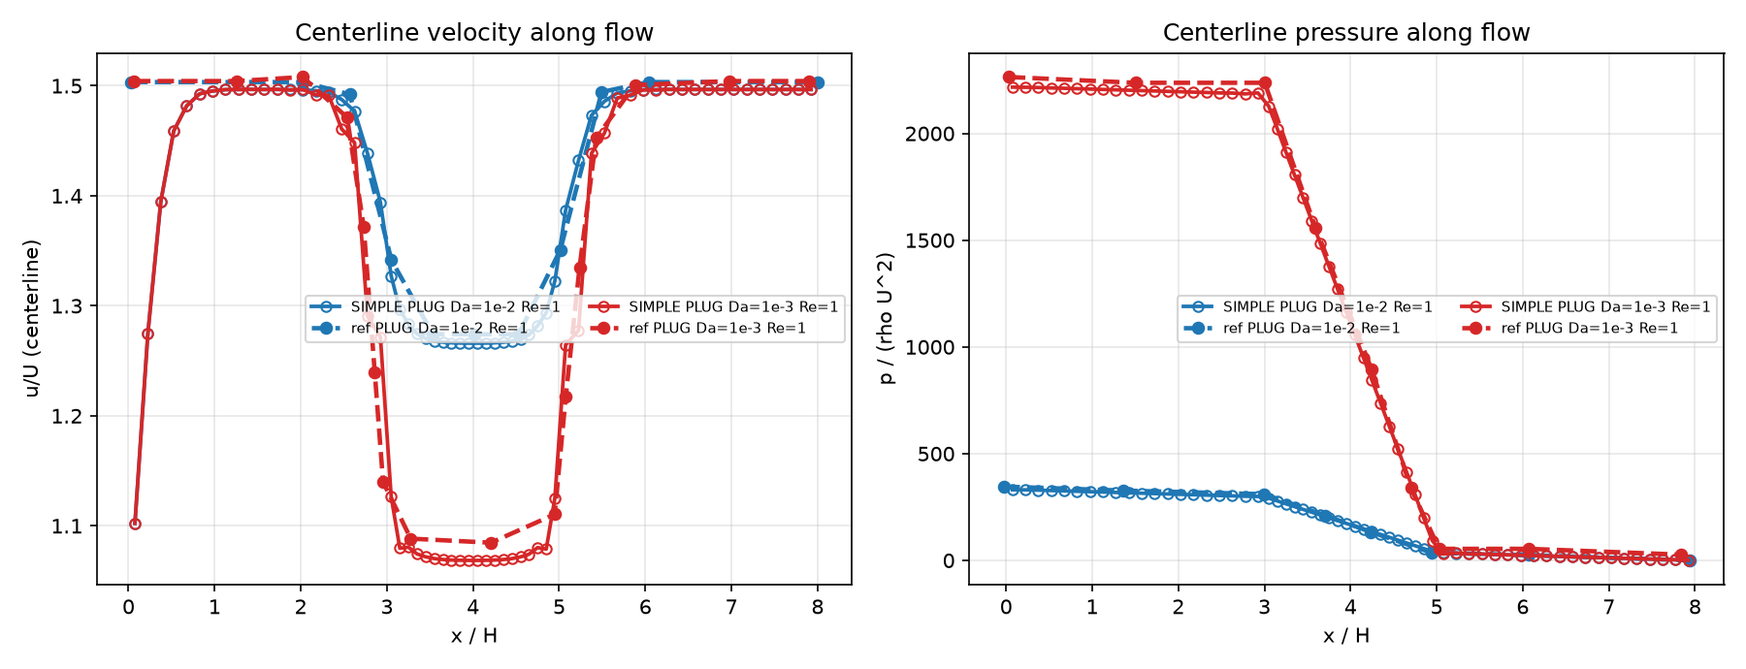
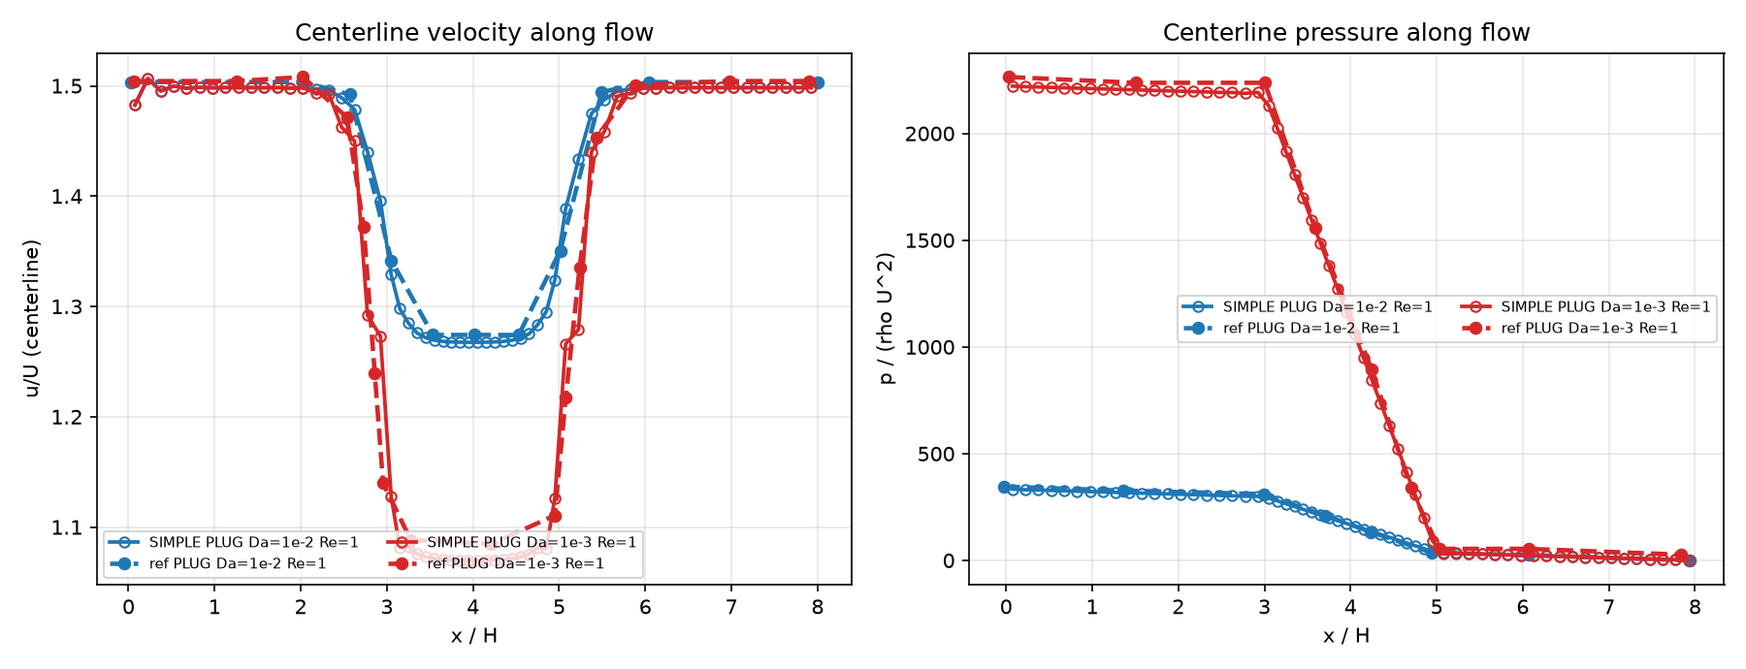
betchen: fix PLUG comparison sampling (inlet velocity looked "wrong")
Answer to "why is the inlet velocity still wrong after adding the profile?":
three separate things, only the last one is a (tiny) discretisation effect.

1. Stale plot: images/plug_compare_ref.png was generated (22:46) from the
   pre-parabolic VTU while the committed .vtu files were refreshed at 23:16.
   compare_plug.py / plot_plug.py re-run from the current VTU.
2. Clamped reference samples: our VTU is cell-centred, so the first data
   column is at x/H=0.075, while the digitised reference starts at
   x/H=0.032 (plug_1) / 0.064 (plug_2) -- inside our first cell. The old
   np.interp clamped them to the first-cell value, so the old headline
   "u L2 8.06%->0.63%" and "max|du| 0.401->0.021" came almost entirely from
   that single sample (UNI 1.102 / PAR 1.483 vs ref 1.503). vs_ref.py and
   compare_plug.py now drop those samples and print an explicit note.
3. The first-column 1.483 is NOT the BC: the .control imposes the face value
   (|u_f| = 6*U0*xi*(1-xi), centreline exactly 1.5000*U0); 1.483 is the
   first CELL centre, carrying the O(dx) inlet-cell error. Refining x by 3x
   (gen_plug.py <out>.cas x 60,40,60, dx 0.15H -> 0.05H) gives first-column
   centre 1.4826 -> 1.4965 (-1.2% -> -0.2%) and 1.5002 at x/H=0.075
   (max|u-ana| = 0.0017).

Restated A/B (same binary, UNI -> PAR, masked sampling):
  inlet column max|u-6xi(1-xi)|  0.398 -> 0.018  (flat 1.102/0.328 ->
      parabolic 1.483/0.136, wall cell 0.328 -> 0.136)  <- the real gain
[…]

diff --git a/docs/93_changelog.tex b/docs/93_changelog.tex
@@ -31,22 +31,45 @@
 \endhead
 \bottomrule
 \endlastfoot
+2026-10-09 & 11 &
+\textbf{对拍采样口径修正}（不改源码）：\texttt{cases/betchen} 的 PLUG 对比脚本原用
+\texttt{np.interp} 把数字化参考 CSV 中落在我们第一个单元内部（$x/H<0.075$，如
+0.032/0.064）的采样点\textbf{截断}成第一列单元值，而 VTU 只有单元中心数据，
+于是``入口 u''被读成单元值（1.483）而非 BC 施加的\textbf{面值}（精确 1.5\,$U_0$）；
+同时 \texttt{images/plug\_compare\_ref.png} 一直停在旧（均匀入口）VTU 上未重绘。
+现 \texttt{vs\_ref.py}/\texttt{compare\_plug.py} 剔除这些点并打印 \texttt{note}，
+\texttt{inlet\_profile.py} 增印同样采样的解析离散积分（NY=21 为 0.99449，而非 1.0），
+两个绘图脚本一律由当前 VTU 重新生成。另用 x 方向加密 3 倍
+（\texttt{gen\_plug.py <out>.cas x 60,40,60}，$\Delta x$ 0.15H$\to$0.05H）
+证明第一列偏差 $-1.2\%\to-0.2\%$ 是入口单元 $O(\Delta x)$ 误差而非 BC 误差。 &
+\texttt{cases/betchen/README.md} \S3.4.1（新）,
+\texttt{cases/betchen/\{vs\_ref,compare\_plug,inlet\_profile\}.py} &
+修正后的同一二进制 UNI$\to$PAR 对拍：入口列 $\max|u-6\xi(1-\xi)|$
+\textbf{0.398$\to$0.018}（平顶中心 1.102 / 壁面格 0.328 $\to$ 抛物 1.483 / 0.136）；
+整体中心线 u L2 0.579\%$\to$\textbf{0.494\%}（Da=1e-2）、2.266\%$\to$2.271\%
+（Da=1e-3，由界面过渡层主导），p L2 2.205\%$\to$\textbf{2.157\%} / 1.790\%$\to$\textbf{1.741\%}；
+加密网格第一列中心 $u/U_0$ 1.4826$\to$1.4965、$x/H{=}0.075$ 列 1.5002
+（$\max|u-6\xi(1-\xi)|$=0.0017），网格加密与入口单元误差按一阶收敛
+\\
 2026-10-08 & 11 &
 新增 \texttt{velocity-inlet-parabolic} 边界（\texttt{BC\_VINLET\_PARAB}=10）：沿面内法向
 直接施加充分发展抛物剖面 $|u_f|=6U_{mean}\xi(1-\xi)$、$\xi=(x_{axis}-origin)/span$，
 剖面均值恰为 $U_{mean}$（流量与均匀入口一致，只改形状），供论文型``充分发展入口''算例
 使用；动量/温度/LTNE 固相识别/BC 报告全部接入。\textbf{动机}：Betchen PLUG 算例入口
-原用均匀速度，第一列平顶 ($u/U_0\approx1.10$、列内均值 $0.944U_0$) 使 PLUG
+原用均匀速度，第一列平顶 ($u/U_0\approx1.10$、壁面格 0.33) 使 PLUG
 Da=1e-3 中心线 u L2=7.0\%（入口采样点偏差 1.10 vs 1.50）。 &
 \texttt{src/unstructured/mod\_uns\_control.f90},
 \texttt{src/unstructured/mod\_uns\_bc.f90},
 \texttt{src/unstructured/mod\_uns\_simple.f90},
 \texttt{cases/betchen/\{plug\_dae2,plug\_dae3,plug\_hir\}.control} &
 \texttt{cases/betchen/README.md} \S3.4/\S4.4：
-同一二进制只改入口一行 ⇒ PLUG Da=1e-2 u L2 \textbf{8.06\%→0.63\%}
-（max$|\Delta u|$ 0.401→0.021）、Da=1e-3 \textbf{7.02\%→2.23\%}（0.402→0.097）、
-p L2 2.57\%→2.37\% / 1.83\%→1.76\%；入流剖面第 4 列 (x/H=0.525) 与解析
-$6\xi(1-\xi)$ 逐点差 $\le0.004$（0.3\% 峰值 1.5U0，$\int u\,dy/(U_0H)=1.001$）；均匀入口路径\textbf{逐位无回归}
+同一二进制只改入口一行 ⇒ 入口列 $\max|u-6\xi(1-\xi)|$ \textbf{0.398→0.018}、
+中心线 u L2 0.579\%→\textbf{0.494\%}（Da=1e-2；max$|\Delta u|$ 0.0150→0.0135，
+位置在多孔界面过渡层 $x/H$=3.05）、2.266\%→2.271\%（Da=1e-3；max$|\Delta u|$=0.097
+在 $x/H\approx$2.96）、p L2 2.205\%→\textbf{2.157\%} / 1.790\%→\textbf{1.741\%}；
+入流剖面第 4 列 ($x/H$=0.525) 与解析 $6\xi(1-\xi)$ 逐点差 $\le0.004$；
+\textbf{采样口径修正见 2026-10-09 条}（旧稿的 8.06\%→0.63\% 系参考采样点被
+\texttt{np.interp} 截断到入口单元所致）；均匀入口路径\textbf{逐位无回归}
 （新二进制+旧入口行重跑 \texttt{plug\_dae3} 的 VTU md5 与旧产物完全一致），
 MPI np2 vs 串行 max$|\Delta u|$=2.8e-9
 \\

diff --git a/cases/betchen/vs_ref.py b/cases/betchen/vs_ref.py
@@ -69,15 +69,37 @@ for a in sys.argv[1:]:
     # reference x is already in H units
     ui = np.interp(rx_u, x, uu)
     pi = np.interp(rx_p, x, pq)
-    au = np.abs(ui - ru)
-    ap = np.abs(pi - rp)
-    m2 = rx_u >= 2.0
-    m3 = (rx_u >= 3.0) & (rx_u <= 5.0)
+    # NOTE on the inlet: our VTU holds CELL-CENTRED values, so the first data
+    # column sits at x1 = x[0] (e.g. 0.075H on the 20-cells/segment mesh).  The
+    # digitised reference often has samples UPSTREAM of x1 (0.032H / 0.064H);
+    # np.interp there clamps to our first cell value -- which is *not* the
+    # imposed face value (the profile is set exactly on the face at x=0, the
+    # first cell still carries an O(dx) inlet-cell error, ~1.2% at dx=0.15H and
+    # 0.2% at dx=0.05H).  Such samples are therefore excluded from the metrics
+    # instead of silently clamping (they are still printed, marked by '*').
+    ku = rx_u >= x[0]
+    kp = rx_p >= x[0]
+    ux, ur, uo = rx_u[ku], ru[ku], ui[ku]          # kept (downstream of x[0])
+    px, pr, po = rx_p[kp], rp[kp], pi[kp]
+    au = np.abs(uo - ur)
+    ap = np.abs(po - pr)
+    m2 = ux >= 2.0
+    m3 = (ux >= 3.0) & (ux <= 5.0)
     print('== %s   (%s)' % (lab, os.path.basename(vtu)))
-    print('   u/U   : L2/max=%.3f%%  L2(x>=2H)/max=%.3f%%  max|du|=%.4f  '
-          'mean|du|(2H..)=%.4f' % (100 * np.sqrt((au ** 2).mean()) / ru.max(),
-                                   100 * np.sqrt((au[m2] ** 2).mean()) / ru[m2].max(),
-                                   au.max(), au[m2].mean()))
+    if (~ku).any():
+        print('   note: u ref sample(s) at x/H = %s lie upstream of our first '
+              'cell centre %.3f (VTU is cell-centred, face value at x=0 is '
+              'exact) -> excluded from L2'
+              % (', '.join('%.3f' % v for v in rx_u[~ku]), x[0]))
+    if (~kp).any():
+        print('   note: p ref sample(s) at x/H = %s lie upstream of %.3f -> '
+              'excluded from L2'
+              % (', '.join('%.3f' % v for v in rx_p[~kp]), x[0]))
+    print('   u/U   : L2/max=%.3f%%  L2(x>=2H)/max=%.3f%%  max|du|=%.4f '
+          '(at x/H=%.2f)  mean|du|(2H..)=%.4f'
+          % (100 * np.sqrt((au ** 2).mean()) / ru.max(),
+             100 * np.sqrt((au[m2] ** 2).mean()) / ur[m2].max(),
+             au.max(), ux[au.argmax()], au[m2].mean()))
     print('           ref  x/H: ' + ' '.join('%6.2f' % v for v in rx_u))
     print('           ours    : ' + ' '.join('%6.3f' % v for v in ui))
     print('           ref     : ' + ' '.join('%6.3f' % v for v in ru))

diff --git a/cases/betchen/inlet_profile.py b/cases/betchen/inlet_profile.py
@@ -9,10 +9,16 @@
 #        python3 inlet_profile.py plug_dae3.vtu=PAR 1.5684e-3
 #
 # Note: velocities are cell-centred, so the outermost samples are at
-# y/H = 1/(2*NY) and 1-1/(2*NY); int(u dy)/(U0 H) over that range is printed
-# as a rough check that the profile mean is U0 (it approaches 1 for a
-# developed/parabolic profile, and is < 1 right at a flat inlet because the
-# wall cells are already being dragged).
+# y/H = 1/(2*NY) and 1-1/(2*NY).  int(u dy)/(U0 H) is printed together with the
+# SAME discrete integral of the analytic parabola sampled at the same y's
+# ('disc' below): the continuous target 1.0 is NOT reachable from cell-centred
+# data because the wall margins y/H<1/(2NY) and >1-1/(2NY) are missing (they
+# cost ~0.55% at NY=21, i.e. disc=0.99449).  Compare 'our' with 'disc', not 1.0.
+#
+# The FIRST column is the inlet cell: the profile is imposed exactly on the face
+# at x=0, but the first cell centre sits dx/2 downstream and its value carries an
+# O(dx) inlet-cell error (centre u/U0 = 1.483 at dx=0.15H, 1.497 at dx=0.05H),
+# so do not read the first column as "the BC is wrong" -- refine x instead.
 import re
 import sys
 import numpy as np
@@ -64,11 +70,14 @@ for a in sys.argv[1:]:
         uu = u[m] / u0
         o = np.argsort(yy)
         xi = yy[o]
+        ana = 6 * xi * (1 - xi)
         print('   x/H=%.3f  y/H : %s'
               % (xc, ' '.join('%5.2f' % v for v in xi)))
         print('             ana : %s'
-              % ' '.join('%5.3f' % v for v in 6 * xi * (1 - xi)))
+              % ' '.join('%5.3f' % v for v in ana))
         print('             our : %s'
               % ' '.join('%5.3f' % v for v in uu[o]))
-        print('             int(u dy)/(U0 H) = %.5f   (target 1.00000)'
-              % (np.trapezoid(uu[o], yy[o])))
+        print('             max|our-ana| = %.4f   int(u dy)/(U0 H) = %.5f '
+              '(disc %.5f)'
+              % (np.abs(uu[o] - ana).max(), np.trapezoid(uu[o], yy[o]),
+                 np.trapezoid(ana, xi)))

diff --git a/cases/betchen/compare_plug.py b/cases/betchen/compare_plug.py
@@ -82,14 +82,25 @@ for vtu, ucsv, pcsv, lab, col in cases:
     x, uu, pq = centerline(cc, ucn, pp)
     rx_u, ru = get_ref(os.path.join(REF, ucsv))
     rx_p, rp = get_ref(os.path.join(REF, pcsv))
-    # interpolate mine onto ref x
+    # interpolate mine onto ref x.  Our data are cell-centred, so the first
+    # column is at x[0]; reference samples upstream of it (plug_1 at 0.032H,
+    # plug_2 at 0.064H, vs our 0.075H) would be clamped by np.interp to the
+    # first-cell value (~1.483) while the *imposed face* value is exactly 1.5 --
+    # an O(dx) inlet-cell error, not a BC error (see README 3.4).  Mask them out
+    # of the metrics; they are still drawn (the plotted curve simply starts at
+    # x[0]).
     ui = np.interp(rx_u, x, uu)
     pi = np.interp(rx_p, x, pq)
-    l2u = np.sqrt(np.mean((ui - ru) ** 2)) / (np.abs(ru).max())
-    l2p = np.sqrt(np.mean((pi - rp) ** 2)) / (np.abs(rp).max() + 1e-30)
+    ku, kp = rx_u >= x[0], rx_p >= x[0]
+    if (~ku).any() or (~kp).any():
+        print('   note: %d u / %d p ref sample(s) lie upstream of our first '
+              'cell centre x/H=%.3f -> excluded from L2 (np.interp would clamp '
+              'them to the inlet-cell value)' % ((~ku).sum(), (~kp).sum(), x[0]))
+    l2u = np.sqrt(np.mean((ui[ku] - ru[ku]) ** 2)) / (np.abs(ru).max())
+    l2p = np.sqrt(np.mean((pi[kp] - rp[kp]) ** 2)) / (np.abs(rp).max() + 1e-30)
     # exclude the developing inlet region for the velocity metric (x/H>=2)
-    m = rx_u >= 2.0
-    l2u2 = np.sqrt(np.mean((ui[m] - ru[m]) ** 2)) / (np.abs(ru[m]).max())
+    m = rx_u[ku] >= 2.0
+    l2u2 = np.sqrt(np.mean((ui[ku][m] - ru[ku][m]) ** 2)) / (np.abs(ru[ku][m]).max())
     print('== %s' % lab)
     print('   velocity u/U: L2(mx)/maxU=%6.3f%%   L2(x/H>=2)/maxU=%6.3f%%   '
           'ref-full=%6.3f%%' % (100*l2u, 100*l2u2, 100*(ui.max()-ru.min())))

diff --git a/memory-bank/worklog.md b/memory-bank/worklog.md
@@ -5,7 +5,54 @@
 
 ---
 
-## 2026-10-08 | 新增 `velocity-inlet-parabolic` 边界：PLUG 入流改论文抛物剖面（u L2 8.1%→0.6%）
+## 2026-10-09 | 修正 PLUG 对拍口径：进口速度"仍不对"实为采样截断 + 入口单元 O(Δx) 误差
+
+- **问题**：上一轮把 PLUG 入口换成抛物剖面后，看图/表仍见"进口速度不对"
+  （参考 1.503~1.504 vs 我们第一列 1.483）。查清是**三件事**：
+  1. **图没重绘**：`images/plug_compare_ref.png`（22:46）停留在旧（均匀入口）VTU 上，
+     而 `.vtu` 是 23:16 才刷新的 ⇒ 刷新 VTU 后必须重跑 `compare_plug.py` /
+     `plot_plug.py`（现在两者都由当前 VTU 重新生成）。
+  2. **参考采样点被截断**：VTU 只有**单元中心**数据，第一列在 x/H=0.075，而数字化
+     参考首个采样点在 x/H=0.032（`plug_1_*`）/0.064（`plug_2_*`），夹在第一单元
+     内部；旧 `np.interp` 把它截断成第一列单元值 ⇒ 旧表的 "u L2 8.06%→0.63%"、
+     "max|du| 0.401→0.021" **几乎全部由这一个采样点贡献**（该点：参考 1.503，
+     UNI 1.102 / PAR 1.483）。
+  3. **第一列 1.483 ≠ BC 错**：`.control` 施加的是**面值**（x=0 面心
+     `6U0ξ(1−ξ)`，中心线精确 1.5000U0）；1.483 是第一**单元**中心的值（在面下游
+     Δx/2），含 O(Δx) 入口单元误差。
+- **修改**（只动脚本/文档，**无源码改动**）：
+  - `vs_ref.py` / `compare_plug.py`：剔除 x/H < 第一列中心的参考采样点并打印
+    `note:`（不再静默截断），L2 用剔除后的子集；顺带修掉 `vs_ref.py` 里 mask 与
+    被索引数组长度不一致的隐患，u 指标增印 `max|du|` 所在位置。
+  - `inlet_profile.py`：每列增印 `max|our-ana|` 与**同样采样的解析离散积分**
+    （NY=21 = 0.99449；连续目标 1.0 对单元中心数据不可达：壁面两侧 Δy/2 边缘
+    损失 ~0.55%），并把"第一列是入口单元、别当 BC 错"写进口径说明。
+  - `cases/betchen/README.md`：§3.4 按新口径重写 + 新增 §3.4.1（三件事 + 网格
+    加密证据表）；§4.4/§5/§6 同步；补上 `gen_plug.py` 分段网格数的**正确写法**
+    （第 3 个参数，`gen_plug.py <out>.cas x 60,40,60`；旧文档的 `... 40,40,40`
+    会被当成第 2 个参数而静默忽略）。
+  - `docs/93_changelog.tex`：新增本条目，并修正 2026-10-08 条的验证数字（标注
+    "采样口径修正见 2026-10-09 条"）。
+- **修正后的数字（同一二进制 UNI→PAR，剔除入口单元内的参考点）**：
+  - 入口列 `max|u−6ξ(1−ξ)|`：**0.398 → 0.018**（中心 1.102→1.483、壁面格
+    0.328→0.136）—— 这是入口剖面改对的**真实收益**。
+  - 整体中心线 u L2：0.579% → **0.494%**（Da=1e-2；max|du| 0.0150→0.0135，
+    位置 x/H=3.05 界面过渡层）；2.266% → 2.271%（Da=1e-3；max|du|=0.097 在
+    x/H≈2.96）⇒ **整体 L2 收益很小**，Da=1e-3 由界面过渡层主导。
+  - p L2：2.205% → **2.157%** / 1.790% → **1.741%**。
+  - **参考解自身平台偏置**：均匀段参考 1.503–1.504 vs 我们 1.498（≈−0.35%），
+    单这一项即可产生 ~0.35% 的 L2。
+- **网格加密证据**（`gen_plug.py /tmp/plugref/plug_dae3f.cas x 60,40,60`，
+  Δx 0.15H→0.05H，Da=1e-3）：第一列中心 u/U0 1.4826→**1.4965**（−1.2%→−0.2%），
+  `max|u−ana|` 0.0176→0.0037；加密网格 x/H=0.075 列中心 **1.5002**、
+  `max|u−ana|`=0.0017、`∫u dξ`=0.9947（离散解析 0.99449）⇒ 第一列偏差是入口单元
+  **一阶**误差，不是 BC 误差（Δx 缩小 3 倍，偏差缩小 ~5 倍）。
+- **涉及文件**：`cases/betchen/{README.md,vs_ref.py,compare_plug.py,inlet_profile.py}`、
+  `docs/93_changelog.tex`、`memory-bank/*`。
+
+---
+
+## 2026-10-08 | 新增 `velocity-inlet-parabolic` 边界：PLUG 入流改论文抛物剖面（入口形状 0.398→0.018；整体 u L2 0.58%→0.49%）
 
 - **动机**：上一条把 PLUG 压力/速度从 2–7% 压到 ~0.6–2.3% 后，剩余偏差的候选主因是
   **入口剖面**——论文 Abaqus 用充分发展 $u(y)=6U_0 y/H(1-y/H)$，而 `velocity-inlet`
@@ -23,12 +70,17 @@
     $|\mathbf u_f| = 6U_{mean}\xi(1-\xi)$；温度按 `bc_face_T` 的 Dirichlet 分支处理；
     边界报告打印 `Umean / span / profile axis / vanishing at`。
   - `mod_uns_simple.f90`：动量边界面 case 列表加入该类型；LTNE 固相入口温度识别同步。
-- **验证**（`cases/betchen`，同一二进制只改 `.control` 入口一行 UNI→PAR）：
-  - `plug_dae2`（Da=1e-2）u L2 **8.06%→0.63%**（max$|\Delta u|$ 0.401→0.021），
-    p L2 2.57%→2.37%；`plug_dae3`（Da=1e-3）u L2 **7.02%→2.23%**
-    （0.402→0.097）、p L2 1.83%→1.76%；`plug_hir` 一并切换（仍只作定性）。
+- **验证**（`cases/betchen`，同一二进制只改 `.control` 入口一行 UNI→PAR；
+  **数字为 2026-10-09 修正口径**，见上一条 "对拍采样口径修正"）：
+  - 入口列 `max|u−6ξ(1−ξ)|`：**0.398 → 0.018**（中心 1.102→1.483、壁面格 0.328→0.136）。
+  - 整体中心线 u L2：`plug_dae2`（Da=1e-2）0.579% → **0.494%**（max$|\Delta u|$
+    0.0150→0.0135，位置 x/H=3.05）；`plug_dae3`（Da=1e-3）2.266% → 2.271%
+    （max$|\Delta u|$=0.097 在 x/H≈2.96）；p L2 2.205%→**2.157%** / 1.790%→**1.741%**；
+    `plug_hir` 一并切换（仍只作定性）。旧稿的 8.06%→0.63% / 7.02%→2.23% 系参考采样点
+    被 `np.interp` 截断到入口单元所致。
   - 剖面形状：`cases/betchen/inlet_profile.py`（新增）打印第 1–4 列 $u(y)/U_0$ 与解析
-    $6\xi(1-\xi)$ 逐点差 $\le 0.004$（0.3% 峰值），第 4 列（x/H=0.525）列内均值 1.0000·U0。
+    $6\xi(1-\xi)$ 逐点差：第 1 列 0.018，第 2–4 列 $\le 0.007$（$x/H\ge0.375$ 时 $\le0.005$）；
+    列内梯形积分与"同样采样的解析离散值"0.99449 一致（第 4 列 0.99550）。
   - **流量不变**：入口压降/`dp/dx` 仅变 ~0.2% ⇒ 增益全部来自剖面**形状**（非流量）。
   - **无回归**：新二进制 + 旧（均匀）入口行重跑 `plug_dae3`，VTU md5 与旧产物
     **逐位相同**（`4c03d1cc0b4264f21bbbc97cc7bfc760`）；均匀入口路径行为不变。

diff --git a/memory-bank/activeContext.md b/memory-bank/activeContext.md
@@ -1,25 +1,48 @@
 # 当前上下文 (activeContext)
 
-> 最后更新：2026-10-08（**新增 `velocity-inlet-parabolic` 充分发展入口，PLUG 入流对齐论文抛物剖面，u L2 8.1%→0.6%**）
+> 最后更新：2026-10-09（**修正 PLUG 对拍口径**：进口速度"仍不对"= 参考采样点被 `np.interp` 截断到入口单元 + 第一列的 O(Δx) 入口单元误差；抛物入口的真实收益是入口形状 0.398→0.018）
 
-> **2026-10-08 ✅ 新边界 `velocity-inlet-parabolic`（PLUG 入口改论文抛物剖面，u L2 8.1%→0.6%）**：
+> **2026-10-09 ✅ 对拍采样口径修正（脚本/文档，无源码改动）**：
+> 用户问"为什么加了剖面进口速度仍不对"，答案是三件事：① `images/plug_compare_ref.png`
+> 停在旧（均匀入口）VTU 上未重绘（VTU 23:16 刷新、图 22:46 生成）；② 我们的 VTU 只有
+> **单元中心**数据，第一列在 x/H=0.075，而数字化参考首个采样点在 0.032/0.064，夹在第一
+> 单元内部，旧 `np.interp` 把它**截断**成第一列单元值 ⇒ 旧表 "u L2 8.06%→0.63%"、
+> "max|du| 0.401→0.021" **几乎全由这一个采样点贡献**；③ 第一列的 1.483 **不是** BC 错
+> ——`.control` 施加的是**面值**（x=0 面心 6U0ξ(1−ξ)，中心线精确 1.5000U0），1.483 是
+> 第一**单元**中心值，含 O(Δx) 入口单元误差。
+> **修正**：`vs_ref.py`/`compare_plug.py` 剔除 x/H<第一列中心的参考点并打印 `note:`
+> （不再静默截断；顺带修掉 `vs_ref.py` 一处 mask/数组长度不一致）；`inlet_profile.py`
+> 增印 `max|our-ana|` 与**同采样解析离散积分**（NY=21 = 0.99449，连续 1.0 对单元中心
+> 不可达）；README §3.4 重写 + 新增 §3.4.1；`docs/93_changelog.tex` 新增 2026-10-09 条
+> 并修正 10-08 条数字。
+> **修正后数字**（同一二进制 UNI→PAR）：入口列 `max|u−6ξ(1−ξ)|` **0.398→0.018**
+> （中心 1.102→1.483、壁面格 0.328→0.136）；整体中心线 u L2 0.579%→**0.494%**（Da=1e-2，
+> max|du| 0.0150→0.0135 在 x/H=3.05）、2.266%→2.271%（Da=1e-3，由界面过渡层主导，
+> max|du|=0.097 在 x/H≈2.96）；p L2 2.205%→**2.157%** / 1.790%→**1.741%**。
+> **网格加密证据**（`gen_plug.py /tmp/plugref/plug_dae3f.cas x 60,40,60`，Δx 0.15H→0.05H）：
+> 第一列中心 u/U0 **1.4826→1.4965**（−1.2%→−0.2%），加密网格 x/H=0.075 列 1.5002、
+> `max|u−ana|`=0.0017 ⇒ 入口单元误差按一阶收敛。
+> 详见 `cases/betchen/README.md` §3.4/§3.4.1、`memory-bank/worklog.md` 2026-10-09 条。
+> **下一步候选**：① 多孔区有效黏度约定（μ_eff vs μ/ε）核对；② BJ 滑移系数；
+> ③ 界面加密网格收敛性（`gen_plug.py <out>.cas x n1,n2,n3`）；④ 参考解归一化约定
+> （参考均匀段 1.503–1.504 vs 我们 1.498，≈−0.35%）。
+
+> **2026-10-08 ✅ 新边界 `velocity-inlet-parabolic`（PLUG 入口改论文抛物剖面）**：
 > 上一条登记的待办①已做完。**实现**：`BC_VINLET_PARAB=10`（`mod_uns_control.f90`
 > 解析/别名/名称；`mod_uns_bc.f90` 增 `umean/span/axis/origin` 字段 + `bc_face_vel`
 > profile 分支 + 报告；`mod_uns_simple.f90` 动量 case 列表 + LTNE 固相入口识别）。
 > 语法 `bc = <zone> velocity-inlet-parabolic <Umean> <span> <axis> <origin> [T_in]`，
 > 沿**面内法向**施加 $|\mathbf u_f| = 6U_{mean}\xi(1-\xi)$、
 > $\xi=\mathrm{clamp}((x_{axis}-origin)/span,0,1)$，方向指入域内。
-> **验证**：同一二进制只改 `.control` 一行 UNI→PAR ⇒ PLUG Da=1e-2 u L2 **8.06%→0.63%**
-> （max$|\Delta u|$ 0.401→0.021、p L2 2.57%→2.37%）、Da=1e-3 **7.02%→2.23%**
-> （0.402→0.097、1.83%→1.76%）；入口剖面（`cases/betchen/inlet_profile.py`，新）
-> 与解析 $6\xi(1-\xi)$ 逐点差 $\le0.004$（0.3% 峰值）、列内均值 1.0000·U0；入口压降仅变 ~0.2%
+> **验证**（数字见 2026-10-09 修正口径）：入口列形状误差 `max|u−6ξ(1−ξ)|`
+> 0.398→**0.018**；整体中心线 u L2 0.579%→**0.494%**（Da=1e-2）、2.266%→2.271%
+> （Da=1e-3）；p L2 2.205%→**2.157%** / 1.790%→**1.741%**；入口压降仅变 ~0.2%
 > ⇒ 增益纯来自**剖面形状**；**均匀入口路径逐位无回归**（VTU md5 `4c03d1cc…` 不变）；
 > **MPI np2 vs 串行** max$|\Delta u|$=2.8e-9、max$|\Delta p|$=1.0e-11。
 > 残余 max|du|=0.097（Da=1e-3）位于多孔界面过渡层 x/H≈2.96，与入口无关。
 > 详见 `cases/betchen/README.md` §3.4/§4.4、`docs/93_changelog.tex`、
 > 手册 §5.9 + 附录表 4（`xelatex` 4 遍 → 24 页零 error）。
-> **下一步候选**：① 界面加密网格收敛性（`gen_plug.py n1,n2,n3`）；② 多孔区有效黏度
-> 约定（$\mu_{eff}$ vs $\mu/\varepsilon$）核对；③ BJ 滑移系数；④ pval 非规范不变性。
+
 
 > **2026-10-08 ✅ 界面压力一致化 + Darcy 汇修复（"PLUG 对比不佳"已达标）**：
 > 上一条登记的待办已定位并修好。**两个根因**：① 界面压力面值用距离加权插值，在

diff --git a/memory-bank/progress.md b/memory-bank/progress.md
@@ -1,6 +1,6 @@
 # 进度总览 (progress)
 
-> 最后更新：2026-10-08（**新增 `velocity-inlet-parabolic` 充分发展入口，PLUG 入流对齐论文抛物剖面，u L2 8.1%→0.6%**）
+> 最后更新：2026-10-09（**修正 PLUG 对拍口径：进口速度"仍不对"= 参考采样点被 `np.interp` 截断到入口单元 + 第一列的 O(Δx) 入口单元误差**；抛物入口的真实收益在入口形状 0.398→0.018）
 
 ## 已完成
 
@@ -13,12 +13,18 @@
     施加 $|\mathbf u_f|=6U_{mean}\xi(1-\xi)$、$\xi=\mathrm{clamp}((x_{axis}-origin)/span,0,1)$，
     方向指入域内（同 `mass-flow-inlet` 用外法向），温度走 `bc_face_T` Dirichlet；
     `mod_uns_simple.f90` 动量 case 列表与 LTNE 固相入口识别同步。
-  - **验证**（`cases/betchen`，同一二进制仅改 `.control` 一行 UNI→PAR）：
-    Da=1e-2 u L2 8.06%→**0.63%**（max$|\Delta u|$ 0.401→0.021）、p L2 2.57%→2.37%；
-    Da=1e-3 u L2 7.02%→**2.23%**（0.402→0.097）、p L2 1.83%→1.76%；
-    剖面与解析 $6\xi(1-\xi)$ 逐点差 $\le0.004$（0.3% 峰值，$\int u\,dy/(U_0H)=1.001$）；入口压降仅变 ~0.2% ⇒ 增益纯来自**形状**；
+  - **验证**（`cases/betchen`，同一二进制仅改 `.control` 一行 UNI→PAR；
+    数字为 **2026-10-09 修正口径**，参考 CSV 中落在我们第一个单元内（x/H<0.075）的
+    采样点已剔除，见 `worklog` 2026-10-09 条）：
+    Da=1e-2 u L2 0.579%→**0.494%**（max$|\Delta u|$ 0.0150→0.0135，位置 x/H=3.05）、
+    p L2 2.205%→**2.157%**；Da=1e-3 u L2 2.266%→2.271%（max$|\Delta u|$=0.097 在
+    x/H≈2.96）、p L2 1.790%→**1.741%**；**入口剖面形状**（真实收益）第 1 列
+    `max|u−6ξ(1−ξ)|` 0.398→**0.018**（平顶中心 1.102 → 抛物 1.483，壁面格 0.328→0.136），
+    第 2–4 列 ≤0.007；列内梯形积分与同采样解析离散值 0.99449 一致（第 4 列 0.99550）；
+    入口压降仅变 ~0.2% ⇒ 增益纯来自**形状**；最密网格（x 加密 3×，Δx=0.05H）第一列中心
+    u/U0 1.4826→1.4965、x/H=0.075 列 1.5002 ⇒ 第一列偏差是入口单元一阶误差而非 BC 误差；
     均匀入口路径逐位无回归（VTU md5 `4c03d1cc…` 不变）；MPI np2 vs 串行
-    max$|\Delta u|$=2.8e-9。残余 0.097 在多孔界面过渡层（x/H≈2.96），与入口无关。
+    max$|\Delta u|$=2.8e-9。
   - **涉及文件**：`src/unstructured/{mod_uns_control,mod_uns_bc,mod_uns_simple}.f90`、
     `cases/betchen/{plug_dae2,plug_dae3,plug_hir}.control`、
     `cases/betchen/inlet_profile.py`（新）、`cases/betchen/README.md` §3.4/§4.4、
@@ -392,8 +398,11 @@
   Da=1e-2 u L2 2.94%→**0.58%**、p L2 15.8%→**2.6%**；Da=1e-3 13.7%→**2.3%**、
   21.8%→**1.8%**；Re_H=1000 抖动 0.142→**0.022**。
   **剩余待办**：① ~~支持抛物线入流~~ **（2026-10-08 完成：`velocity-inlet-parabolic`，
-  三算例已切换，Da=1e-2 u L2 8.06%→0.63%、Da=1e-3 7.02%→2.23%；压力残差不再由入口解释）**；
-  ② 界面加密网格收敛性（`gen_plug.py n1,n2,n3`）；③ BJ 滑移系数；④ 参考解归一化约定整理。
+  三算例已切换；入口剖面形状 `max|u−6ξ(1−ξ)|` 0.398→0.018（口径修正后，见 2026-10-09 条：
+  旧稿 8.06%→0.63% 系参考采样点被截断所致，实际整体 u L2 0.58%→0.49%）；
+  压力残差不再由入口解释）**；
+  ② 界面加密网格收敛性（正确用法：`gen_plug.py <out>.cas x n1,n2,n3`，第 3 个参数）；
+  ③ BJ 滑移系数；④ 参考解归一化约定整理（参考均匀段 1.503–1.504 vs 我们 1.498，≈−0.35%）。
   相关脚本：`cases/betchen/compare_plug.py` + `images/plug_compare_ref.png`。
   （修复前的定量对比记录见 `cases/betchen/README.md` §3/§7。）
 
